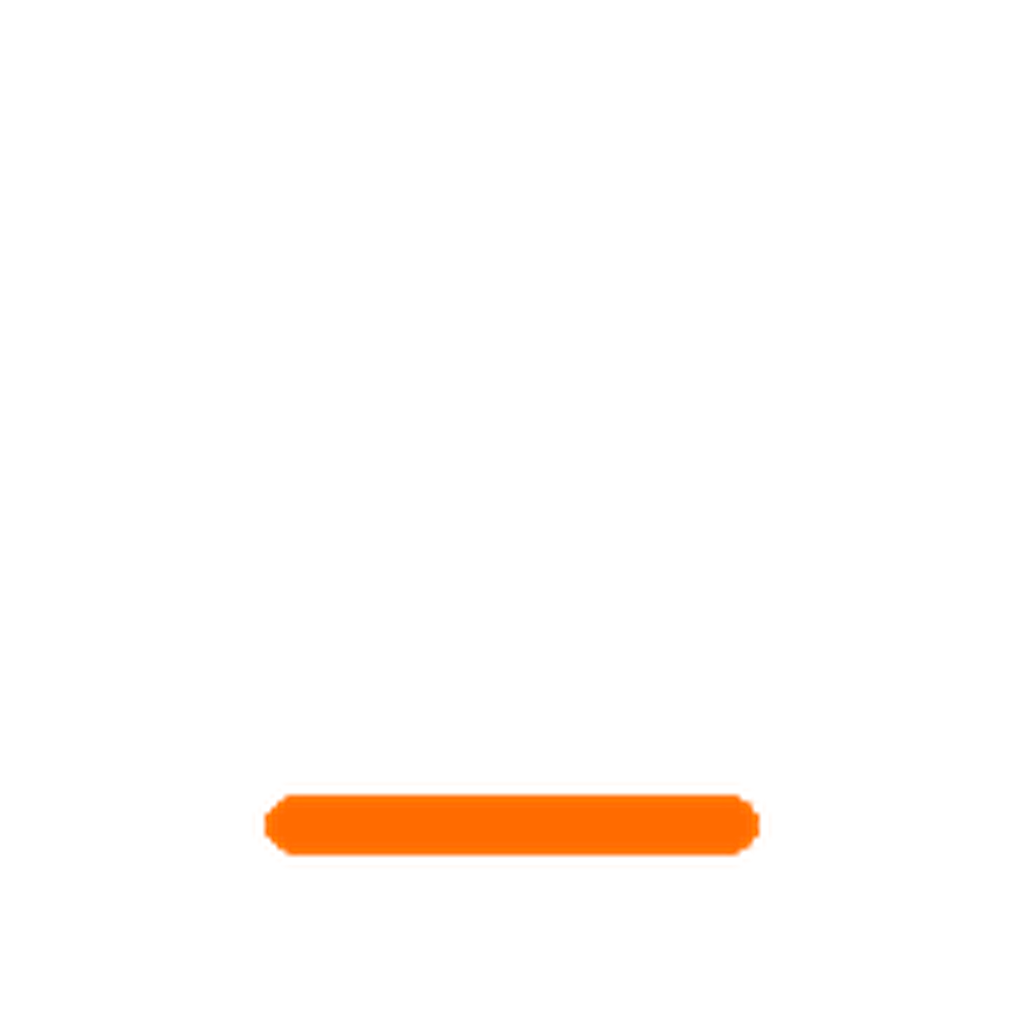
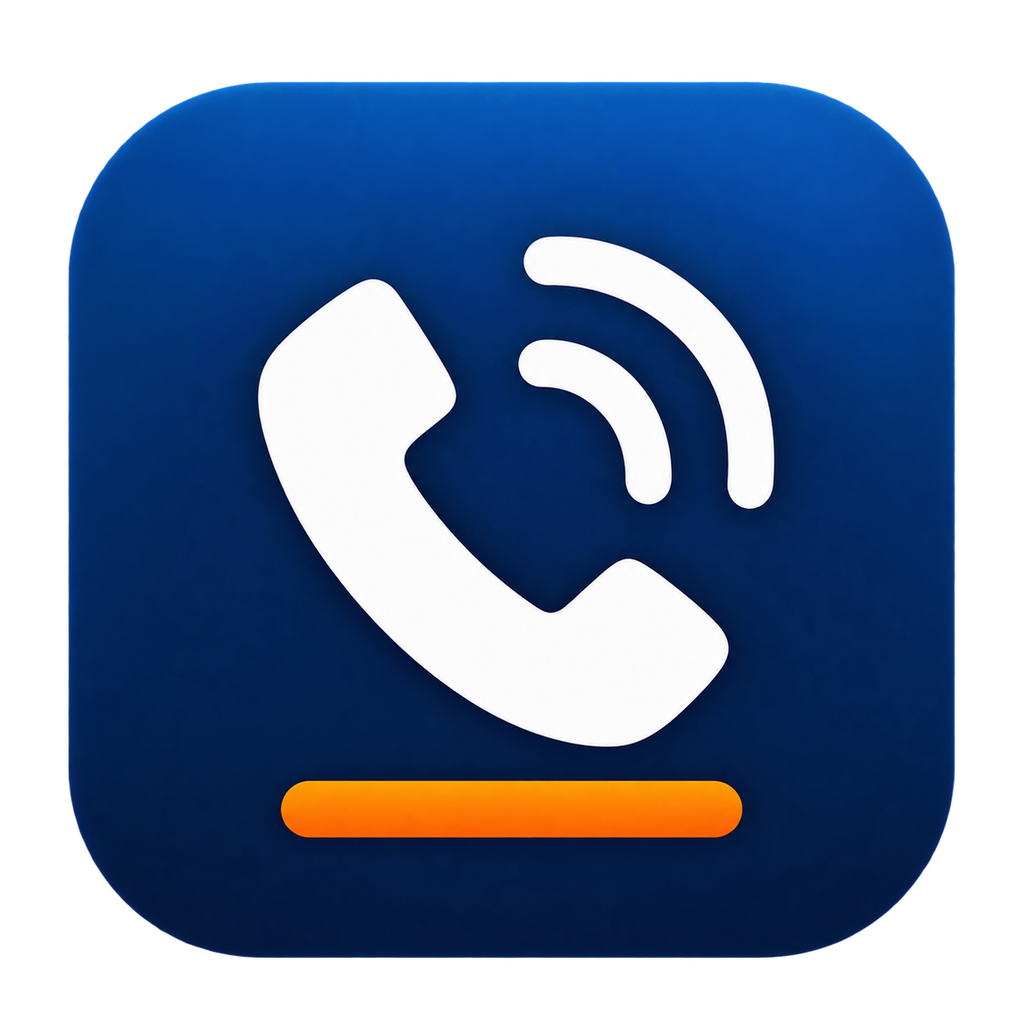
Changes

diff --git a/roadmap.md b/roadmap.md
@@ -210,3 +210,9 @@
 - [x] Gerar os tamanhos comum, redondo e adaptativo do Android.
 - [x] Avançar o Pilar Remotas para 1.8.7.
 - [ ] Confirmar a compilação assinada e instalar no aparelho real.
+
+## Ícone fornecido para o Pilar Fone — 2026-09-14
+- [x] Aplicar sem redesenho o ícone fornecido ao Pilar Fone.
+- [x] Preparar os arquivos comum e adaptativo usados na geração Android.
+- [x] Avançar o Pilar Fone para 1.8.3.
+- [ ] Confirmar a compilação assinada e instalar no aparelho real.
